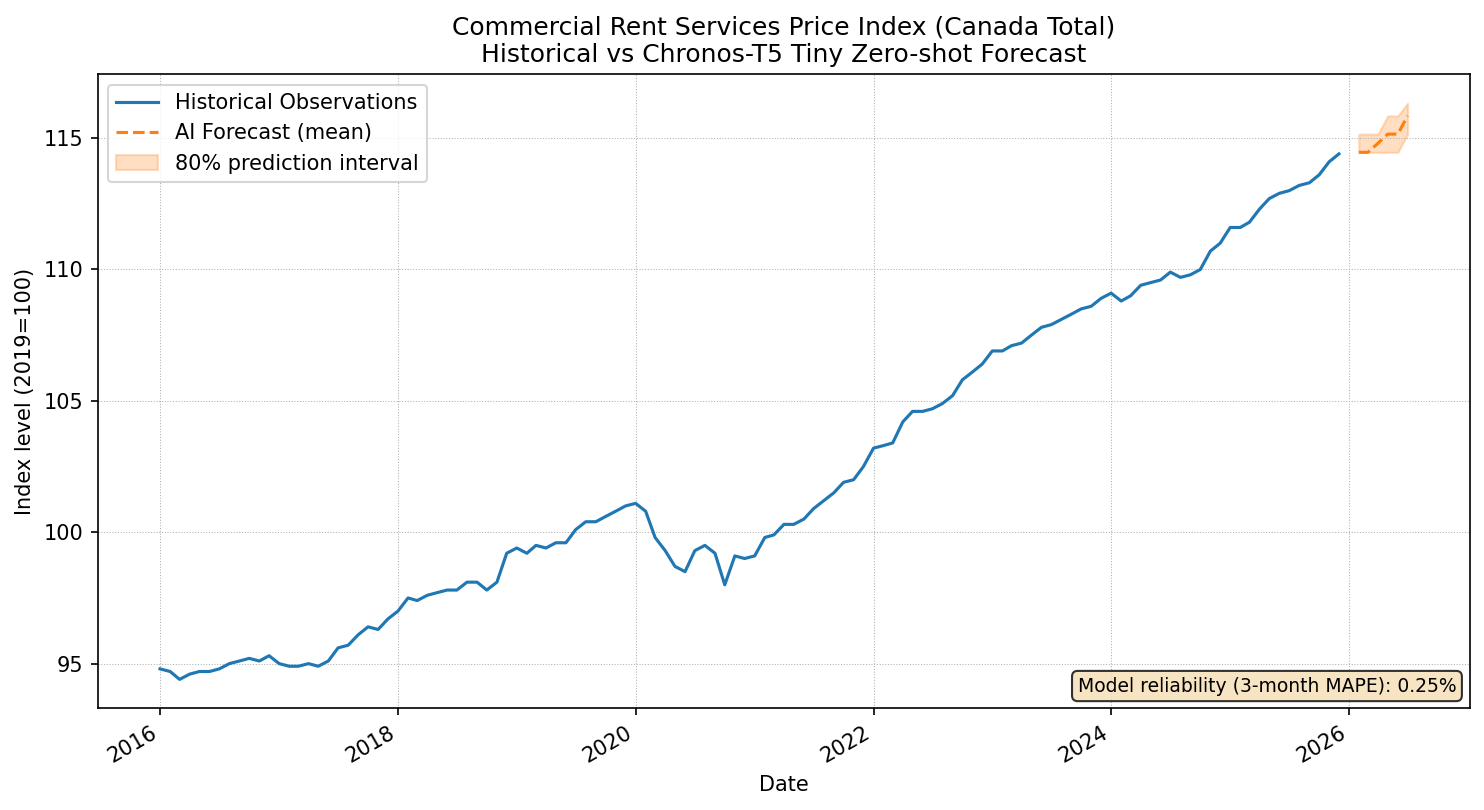
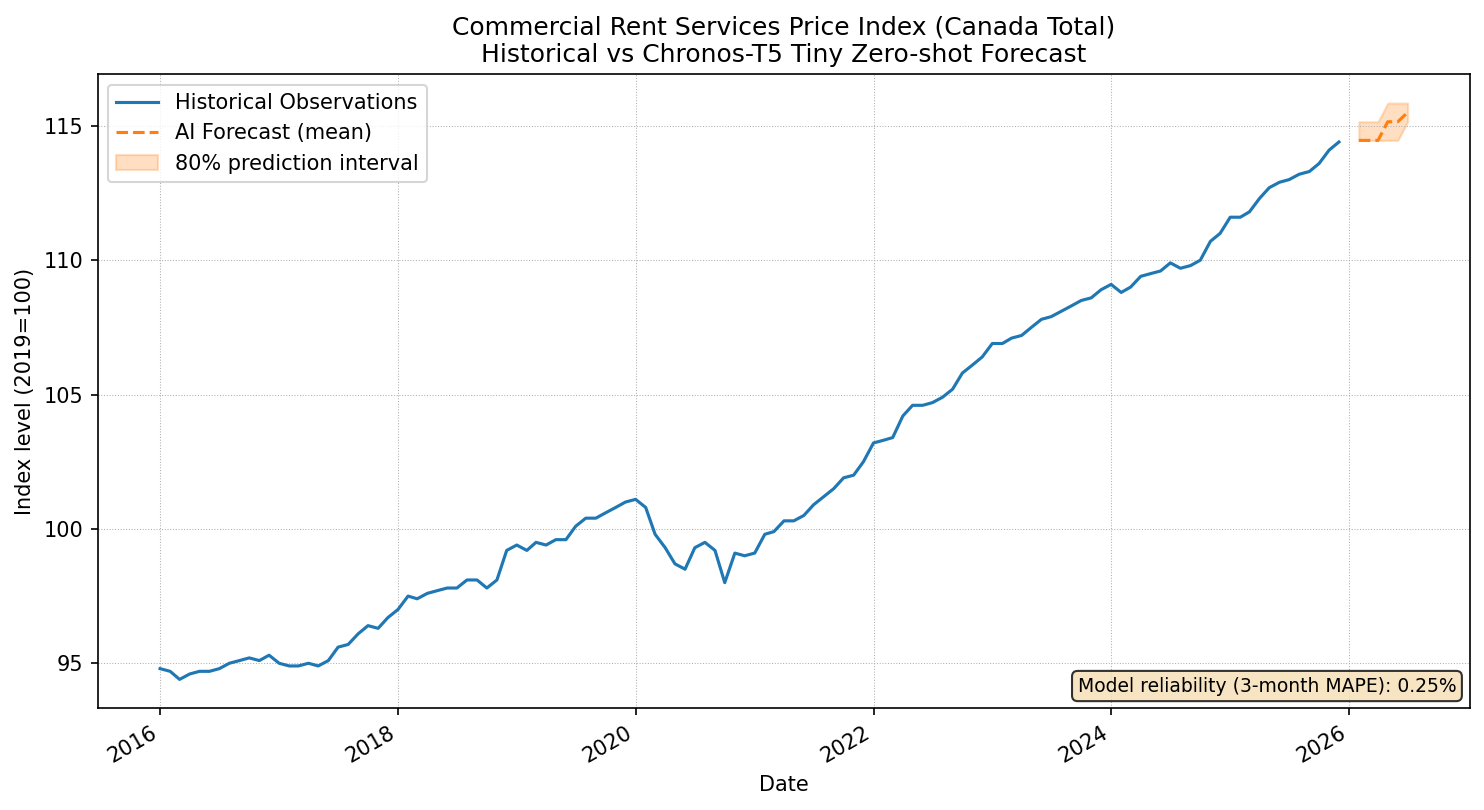
Refresh CRSPI data, AI forecasts, and Real-Time Commercial Rent Intelligence [skip ci]

diff --git a/README.md b/README.md
@@ -21,14 +21,14 @@
 | --- | --- |
 | **Current Index** (Canada, total building type) | 114.40 (2019=100) |
 | **MoM Change** | +0.26% |
-| **6-Month Forecast** (mean) | 115.85 |
+| **6-Month Forecast** (mean) | 115.50 |
 | **Model Accuracy (MAPE)** | 0.25% |
 
 ---
 
 ## Market Intelligence
 
-The Commercial Rent Services Price Index (Canada, total building type) stands at 114.40 (2019=100), with a month-over-month change of +0.26%. The Chronos-T5 zero-shot forecast projects a upward trend of about 1.2% over the next 6 months. Accelerating trend detected; monitor for sustained rent pressure.
+The Commercial Rent Services Price Index (Canada, total building type) stands at 114.40 (2019=100), with a month-over-month change of +0.26%. The Chronos-T5 zero-shot forecast projects a upward trend of about 0.9% over the next 6 months. Forecast indicates stabilizing rents with limited near-term volatility.
 
 ---
 
@@ -38,10 +38,10 @@ The Commercial Rent Services Price Index (Canada, total building type) stands at
 | --- | --- | --- | --- |
 | 2026-01 | 114.46 | 114.46 | 115.15 |
 | 2026-02 | 114.46 | 114.46 | 115.15 |
-| 2026-03 | 114.81 | 114.46 | 115.15 |
+| 2026-03 | 114.46 | 114.46 | 115.15 |
 | 2026-04 | 115.15 | 114.46 | 115.85 |
 | 2026-05 | 115.15 | 114.46 | 115.85 |
-| 2026-06 | 115.85 | 115.15 | 116.33 |
+| 2026-06 | 115.50 | 115.15 | 115.85 |
 
 ---
 ## Technical Methodology
